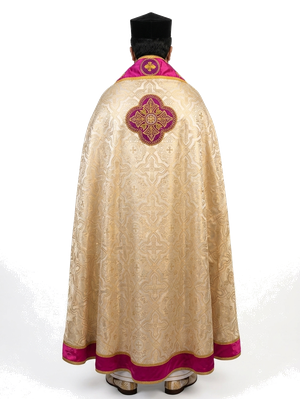
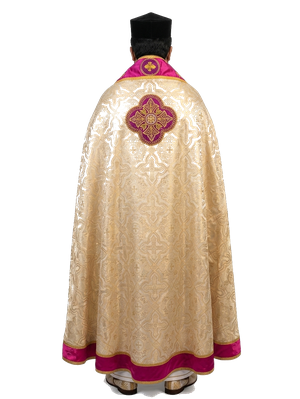
fix: improve front/back flip feature for sacred items
- Reposition flip arrow button for visibility (inline below image)
- Change button color to dark maroon (#8B1E2D) for better contrast
- Increase button size and add hover scale effect
- Aggressively remove background from back image (threshold: RGB > 200)
- Rebuild site with fully transparent background

The flip arrow is now clearly visible with dark color and interactive hover feedback.

diff --git a/_includes/qurbana-carousel.html b/_includes/qurbana-carousel.html
@@ -1244,9 +1244,9 @@
                        onclick="toggleSacredItem(this)">
                     <div class="sacred-item-summary" style="display:flex;flex-direction:column;align-items:center;justify-content:flex-start;width:100%;">
                       ${item.image ? `
-                        <div style="position:relative;margin-bottom:8px;flex-shrink:0;">
-                          <img src="${toWebP(item.image)}" alt="${item.name}" loading="lazy" decoding="async" style="max-width:160px;object-fit:contain;display:block;" class="sacred-item-image" data-front="${toWebP(item.image)}" ${item.back_image ? `data-back="${toWebP(item.back_image)}"` : ''}>
-                          ${item.back_image ? `<button onclick="toggleSacredItemImage(event)" style="position:absolute;bottom:-24px;left:50%;transform:translateX(-50%);background:none;border:none;cursor:pointer;font-size:16px;color:#e8c547;padding:4px 8px;transition:transform 0.2s;" title="Flip image">⇄</button>` : ''}
+                        <div style="display:flex;flex-direction:column;align-items:center;margin-bottom:8px;flex-shrink:0;">
+                          <img src="${toWebP(item.image)}" alt="${item.name}" loading="lazy" decoding="async" style="max-width:160px;object-fit:contain;display:block;margin-bottom:6px;" class="sacred-item-image" data-front="${toWebP(item.image)}" ${item.back_image ? `data-back="${toWebP(item.back_image)}"` : ''}>
+                          ${item.back_image ? `<button onclick="toggleSacredItemImage(event)" style="background:none;border:none;cursor:pointer;font-size:16px;color:#8B1E2D;padding:4px 8px;transition:all 0.2s;font-weight:bold;opacity:0.8;hover:opacity:1;" title="Flip to see back" onmouseover="this.style.opacity='1';this.style.transform='scale(1.15)'" onmouseout="this.style.opacity='0.8';this.style.transform='scale(1)'">⇄</button>` : ''}
                         </div>
                       ` : ''}
                       <div style="font-size:12px;color:#333;font-weight:600;text-align:center;"><strong>${item.name}</strong></div>
